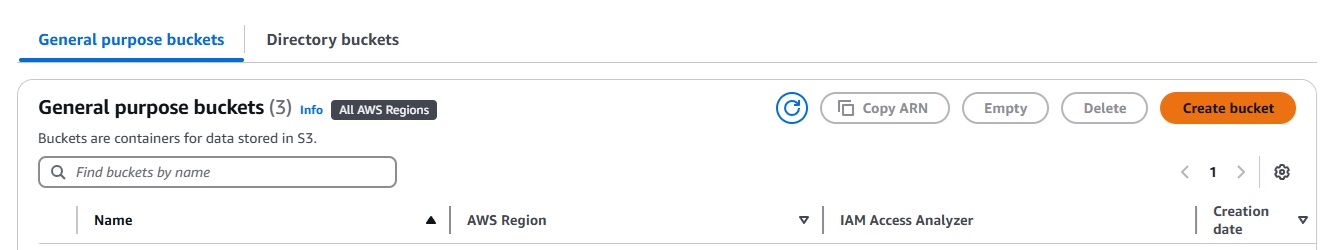
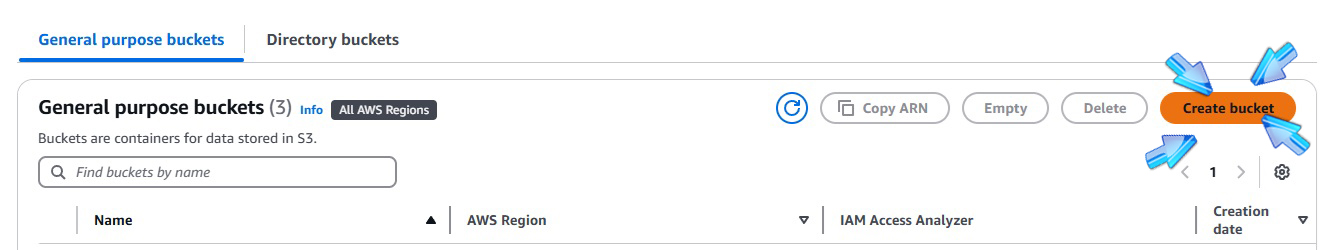
Update S3 region documentation and add new bucket creation image

diff --git a/thisisthelab.md b/thisisthelab.md
@@ -53,9 +53,13 @@
 
 ###### ![Brazil](https://github.com/Acheroniano/flag-icon/blob/master/png/16/country-4x3/br.png "Brazil") 
 ##### ** Escolha a Região na AWS para criar dois buckets **
+###### Você pode escolher qualquer uma eu tenho buckets em Ohio e North Virginia 
+###### e depois de escolher a região, você pode clicar no botão *Create Bucket*
 
 ###### ![United States](https://github.com/Acheroniano/flag-icon/blob/master/png/16/country-4x3/us.png "United States") 
 ##### ** Choose a AWS Region to create two buckets **
+###### I have a couple of buckets in North Virginia and Ohio.
+###### after you choose the region, click in the *Create Bucket* button.
 
 ![S3 AWS Region](./images/2a-S3Region.jpg)
-
+![S3 Create Bucket](./images/3a-S3CreateABucket.jpg)
